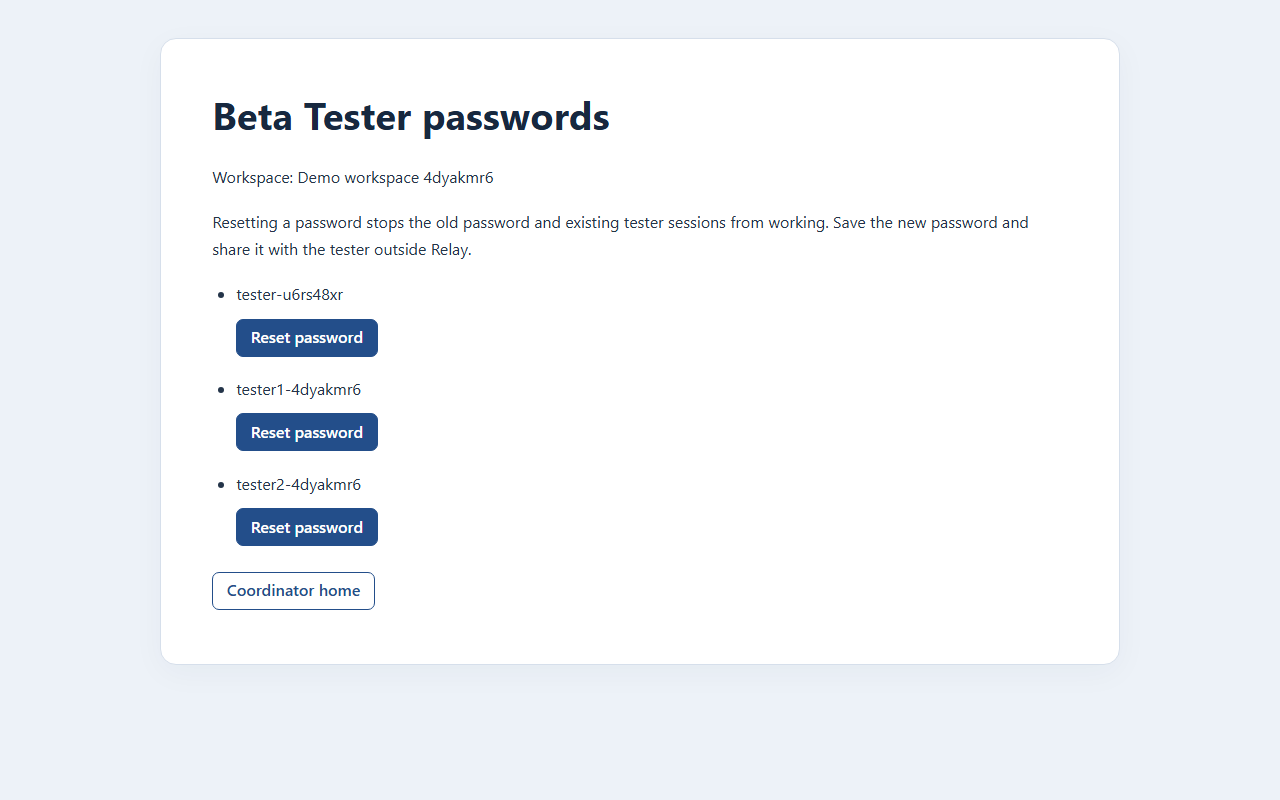
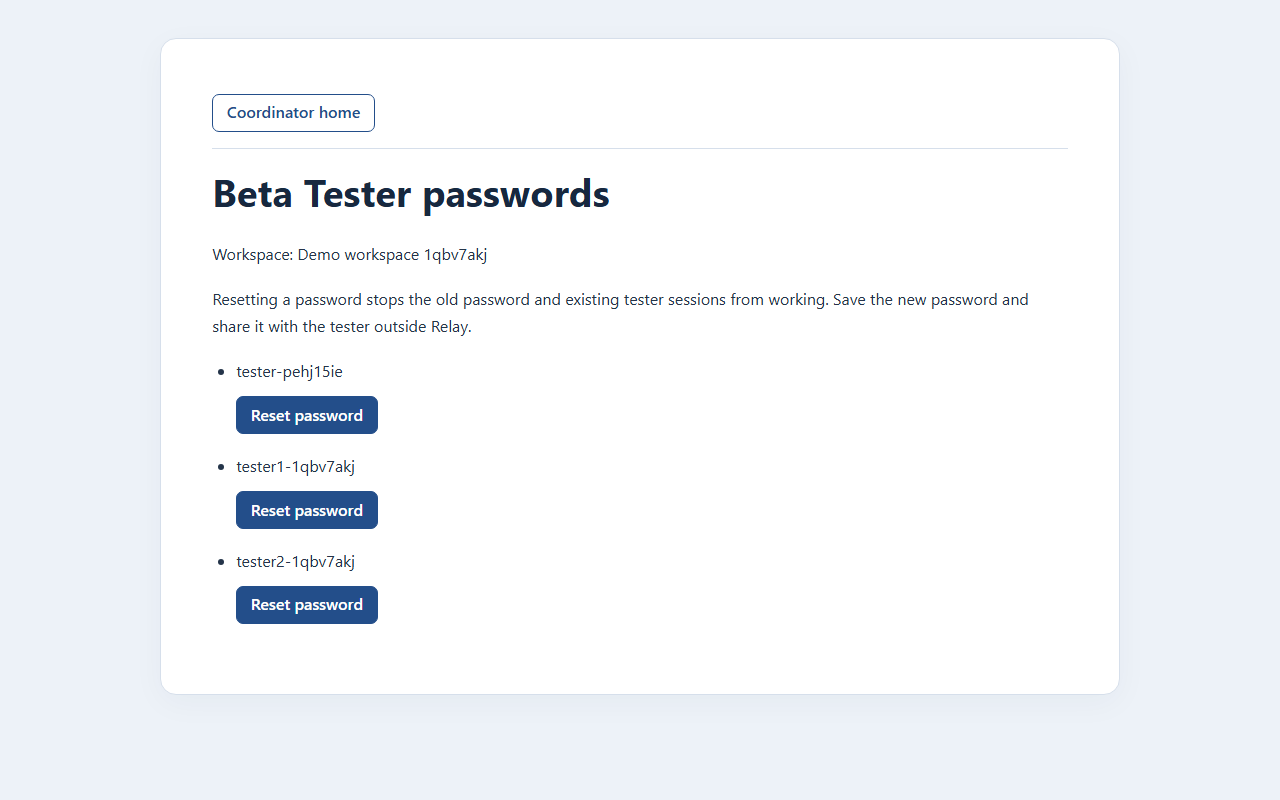
docs: Describe route-back navigation (#183)
Replace the browser-Back advice with the built conflict, error-page and
tester-account links, and recapture the two tester-account screenshots.
The coordinator widened the feedback-refusal sentence to cover the
changed-source and missing-draft refusals.

Agent: builder

Changed region(s): [[0.1562, 0.2188, 0.8125, 0.7812], [0.1562, 0.125, 0.4688, 0.1875]]

diff --git a/docs/UserGuide.md b/docs/UserGuide.md
@@ -38,22 +38,22 @@ Each network address can create up to 10 workspaces an hour, and Relay up to 200
 
 1. Sign in as the workspace's Test Coordinator and choose **Add Beta Tester** on **Coordinator home**.
 2. The **Beta Tester added** page shows the workspace and the new account's **Role**, **Username** and **Password**. Save the credentials when it says "Save this password now. It will not be shown again." Share them with the tester outside Relay.
-3. Choose **Coordinator home** to return. You stay signed in as coordinator; the new account signs in to **Tester home** in your workspace.
+3. Choose **Coordinator home** above the heading to return. You stay signed in as coordinator; the new account signs in to **Tester home** in your workspace.
 
-![The Beta Tester added page showing the workspace, the new tester's Role, Username and Password, the save-password reminder and Coordinator home link](images/beta-tester-added.png)
+![The Beta Tester added page showing the Coordinator home link above the heading, then the workspace, the new tester's Role, Username and Password, and the save-password reminder](images/beta-tester-added.png)
 
-A workspace can have 10 Beta Testers, including its initial two. Once full, another creation attempt shows "This workspace already has 10 Beta Testers." Use **Beta Tester passwords** to find tester usernames and reset their passwords; account editing, removal and retrieval of earlier passwords are unavailable.
+A workspace can have 10 Beta Testers, including its initial two. Once full, another creation attempt shows "This workspace already has 10 Beta Testers." with **Coordinator home** above it. Use **Beta Tester passwords** to find tester usernames and reset their passwords; account editing, removal and retrieval of earlier passwords are unavailable.
 
 Resubmitting the creation request can create another tester until the limit is reached. Returning home does not show the password again, although your browser's back button may redisplay an earlier response. If an error interrupts creation, check **Beta Tester passwords** for the account before trying again.
 
 ## Reset a Beta Tester's password
 
 1. Sign in as the workspace's Test Coordinator and choose **Beta Tester passwords** on **Coordinator home**.
-2. The **Beta Tester passwords** page lists your workspace's tester usernames. It explains: "Resetting a password stops the old password and existing tester sessions from working. Save the new password and share it with the tester outside Relay." Choose **Reset password** beside the intended tester.
+2. The **Beta Tester passwords** page has **Coordinator home** above its heading and lists your workspace's tester usernames. It explains: "Resetting a password stops the old password and existing tester sessions from working. Save the new password and share it with the tester outside Relay." Choose **Reset password** beside the intended tester.
 3. The **Beta Tester password reset** page shows the workspace and the tester's **Role**, **Username** and new **Password**. Save it when the page says "Save this password now. It will not be shown again." Share the credentials with the tester outside Relay.
-4. Choose **Beta Tester passwords** to return to the list, or **Coordinator home**. You remain signed in as coordinator.
+4. Above the heading, choose **Coordinator home**, or **Beta Tester passwords** to return to the list. You remain signed in as coordinator.
 
-![The Beta Tester passwords page listing three tester usernames with Reset password buttons and a warning that resetting stops the old password and existing tester sessions from working](images/beta-tester-passwords.png)
+![The Beta Tester passwords page with the Coordinator home link above the heading, listing three tester usernames with Reset password buttons and a warning that resetting stops the old password and existing tester sessions from working](images/beta-tester-passwords.png)
 
 The username, workspace and testing history stay the same. The old password stops working, and existing tester sessions lose access on their next request. The tester signs in with the replacement password.
 
@@ -98,9 +98,9 @@ Only a Test Coordinator can prepare, publish, review, retest and close test roun
 
 ![Coordinator home showing the username, workspace, Sign out, Add Beta Tester, Beta Tester passwords, and the Rounds section with New round and Sample round (Draft)](images/coordinator-home.png)
 
-If a round action shows an error, return to the round page and check its current details before trying again.
+If a round action is refused on a page titled **Action not available**, the page has **Coordinator home** and **Back to round** above its message. Choose **Back to round** and check the round's current details before trying again.
 
-For a failed publish or retest, no new build or success notification is saved. Use your browser's Back button to return to the round page or retest form and try again later. If your session has ended, [sign in](#sign-in) again and open the round from **Coordinator home**.
+For a failed publish or retest, no new build or success notification is saved, and the page says "Relay is temporarily unavailable. Try again later." Choose **Back to home** above the message; while you are signed in, it opens **Coordinator home**, where you can open the round and try again later. If your session has ended, [sign in](#sign-in) again and open the round from **Coordinator home**.
 
 ### Create a round
 
@@ -296,7 +296,7 @@ With JavaScript enabled, the request disables **Suggest missing details** and sh
 
 An empty reply says "No missing details were suggested. You can still edit your result yourself." If the source is too long, the page says "This observation and test case are too long for feedback. You can still edit your result yourself." You may see "Feedback is unavailable right now. You can still edit your result yourself." when the AI service is not configured, the [AI quota](#draft-test-cases-with-ai) is used up or another AI-service problem occurs. Choose **Back to result** to return to your result; editing follows the [same round, build and submission rules](#save-and-submit-a-result).
 
-Questions are not saved. Opening the feedback page again clears them; resubmitting its request asks for new feedback. If Relay detects a change to the saved source during a request, the page says "Your saved draft or test case changed. Reload before requesting feedback." Opening the feedback address directly without a saved draft says "Save a draft before requesting feedback." Submission, a newer build or a closed round prevents feedback with the same messages described under [Save and submit a result](#save-and-submit-a-result).
+Questions are not saved. Opening the feedback page again clears them; resubmitting its request asks for new feedback. If Relay detects a change to the saved source during a request, the page says "Your saved draft or test case changed. Reload before requesting feedback." Opening the feedback address directly without a saved draft says "Save a draft before requesting feedback." Submission, a newer build or a closed round prevents feedback with the same messages described under [Save and submit a result](#save-and-submit-a-result). Each of these feedback refusals, including the changed-source and missing-draft messages, has **Tester home** and **Back to round** above its message; **Back to round** opens the round's current details.
 
 ## Review my results
 
@@ -310,7 +310,7 @@ Only your own results appear. This page is read-only, including drafts. Reload t
 
 ## Error pages
 
-Common error pages include the messages below. Result-entry refusals also include the navigation described under [Save and submit a result](#save-and-submit-a-result).
+Common error pages include the messages below. The access, not-found, too-many and unavailable pages have a **Back to home** link above their message; it opens the start page, or your home page when you are signed in. Refusals on a page titled **Action not available** have your home link and **Back to round** above their message, as described under [Test rounds](#test-rounds), [Save and submit a result](#save-and-submit-a-result) and [Observation feedback](#observation-feedback).
 
 | Message | When |
 | --- | --- |

diff --git a/workflow/plans/183-route-back-navigation.md b/workflow/plans/183-route-back-navigation.md
@@ -26,7 +26,7 @@ Each code checkpoint runs focused server and browser tests red then green; check
 
 - Deferred: persistent navigation bar across pages (human decision, #183).
 - TECHNICAL-SPEC rounds routes say rounds' "403 and 404 pages show fixed text only"; a static link keeps them fixed content, so no change is planned.
-- Checkpoint 1 committed as bd8e323. Next: coordinator commits checkpoint 2, then assigns checkpoint 3.
+- Checkpoints 1–4 committed as bd8e323, 639acf0, 274f19c and 207e6a8. Next: the coordinator commits checkpoint 5, runs full verification (`ruff check . && ruff format --check . && pytest`), then the verifier reviews the fixed candidate.
 
 ## Implementation evidence
 
@@ -48,3 +48,6 @@ Each code checkpoint runs focused server and browser tests red then green; check
   - `pytest -q src/accounts src/relay/tests/test_access_matrix.py` → 1052 passed in 251.76s.
   - No existing link-position expectation existed; the existing link assertions hold unchanged.
   - Screenshots `docs/images/beta-tester-added.png` and `beta-tester-passwords.png` (from `src/e2e/screenshots.py::account_management`) show these pages with the old bottom link; recapture them in the docs checkpoint.
+- Checkpoint 5 (docs, via maintain-docs):
+  - `docs/UserGuide.md`: the browser-Back advice is replaced by the 503 page's **Back to home**. The guide now describes the round 409's **Coordinator home**/**Back to round**, the feedback refusals' **Tester home**/**Back to round**, and **Back to home** on the 403/404/429/503 pages in the Error pages intro. The tester-account steps and two alt texts now place the links above the heading. Each statement was checked against the templates and views; anchors `#test-rounds`, `#save-and-submit-a-result`, `#observation-feedback` and `#sign-in` exist.
+  - Screenshots: `docs/images/coordinator-home.png` was copied aside, then `pytest src/e2e/screenshots.py::test_account_management_screenshots` (private database) → 1 passed in 12.56s, and the copy was restored with a plain file copy. Its hash matches the original. `beta-tester-added.png` and `beta-tester-passwords.png` were recaptured at 1280×800, the same size as before, and both show Coordinator home above the heading. No other `docs/images` file changed. The Developer Guide is unchanged; no setup or design statement changed.
